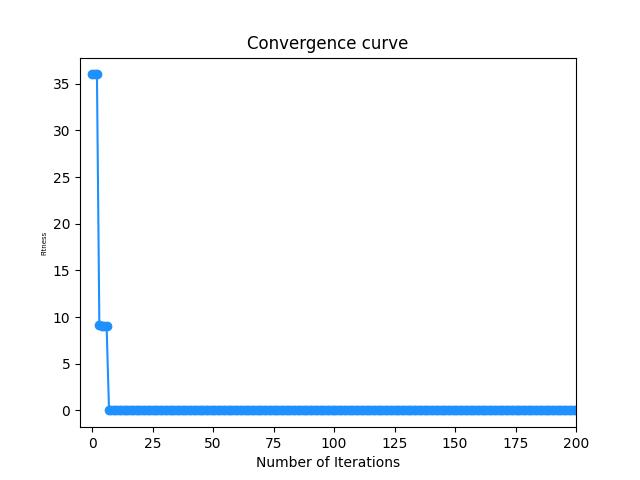
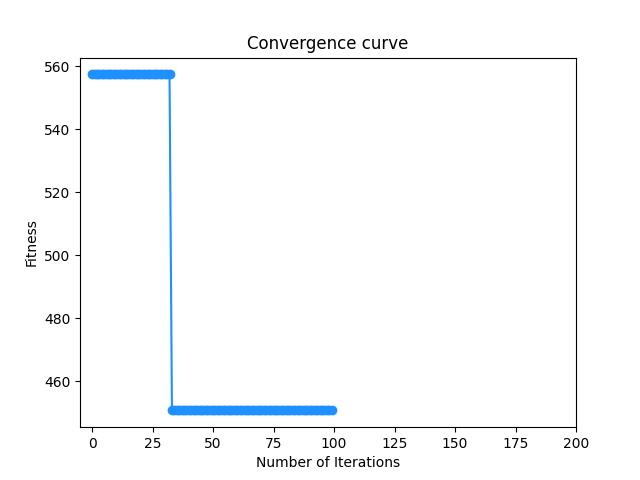
# update PSO graph

diff --git a/PSO.py b/PSO.py
@@ -2,7 +2,7 @@ import time
 
 import numpy as np
 import random
-
+import matplotlib.pyplot as plt
 
 # Benchmarks
 def F1(X):
@@ -147,6 +147,13 @@ def PSO(pop, dim, lb, ub, Max_iter, fun):
                 X[i, :] = Xnew[i, :]
         Ybest, index = SortFitness(fitness)
         X, V = SortPosition(X, V, index)
+        # -----------King--------------------#
+        history.append(X)
+        for i in range(len(fitness)):
+            ave = np.average(fitness)
+        fit_history.append(ave)
+        print('ave=',ave)
+        # -----------King--------------------#
         if (Ybest[0] <= GbestScore):
             GbestScore = Ybest[0]
             GbestPosition[0, :] = X[index[0], :]
@@ -154,20 +161,53 @@ def PSO(pop, dim, lb, ub, Max_iter, fun):
         print(f"Iter {t+1} Best: {GbestPosition} with Score: {GbestScore}")
     return Curve, GbestPosition, GbestScore
 
-def fun(X):
-    return F1(X)
+def plot_convergrnce(Curve):
+    ig, ax = plt.subplots()
+    ax.plot(Curve,color='dodgerblue', marker='o', markeredgecolor='dodgerblue', markerfacecolor='dodgerblue')
+    ax.set_xlabel('Number of Iterations',fontsize=10)
+    ax.set_ylabel('Fitness',fontsize=10)
+    ax.set_xlim(-5,200)
+    ax.set_title('Convergence curve')
+    plt.savefig('image.jpg', format='jpg')
+    plt.show()
+
+def plot_search_history(history):
+    for i in range(len(history)):
+        for n in range(len(history[0])):
+            plt.scatter(history[i][n][0], history[i][n][1], c="black", alpha=0.3, facecolor='white', )
+            plt.xlim(lower, upper)
+            plt.ylim(lower, upper)
+    plt.title('Search history')
+    plt.show()
+
+def plot_fitness(fit_history):
+    plt.plot(fit_history, color='b', marker='o', linewidth=2, markersize=6)
+    plt.title('Average fitness of all Vultures')
+    plt.xlabel('Number of Iterations', fontsize=10)
+    plt.ylabel('Fitness', fontsize=10)
+    plt.xlim(-5, 200)
+    plt.show()
 
 # Execute
+def fun(X):
+    return F1(X)
 time_start = time.time()
-pop = 1000  # Population size n
-MaxIter = 500  # Maximum number of iterations.
-dim = 30  # The dimension.
-fl = -100  # The lower bound of the search interval.
-ul = 100  # The upper bound of the search interval.
-lb = fl * np.ones([dim, 1])
-ub = ul * np.ones([dim, 1])
+pop = 10  # Population size n 1000
+MaxIter = 100  # Maximum number of iterations. 500
+dim = 2  # The dimension. 30
+lower = -100  # The lower bound of the search interval. -100
+upper = 100  # The upper bound of the search interval. 100
+history=[]
+fit_history=[]
+lb = lower * np.ones([dim, 1])
+ub = upper * np.ones([dim, 1])
 Curve, GbestPositon, GbestScore = PSO(pop, dim, lb, ub, MaxIter, fun)
 time_end = time.time()
 print(f"The running time is: {time_end - time_start} s")
 print('The optimal value：', GbestScore)
 print('The optimal solution：', GbestPositon)
+plot_convergrnce(Curve)
+plot_search_history(history)
+plot_fitness(fit_history)
+#---------------King---------------------#
+
